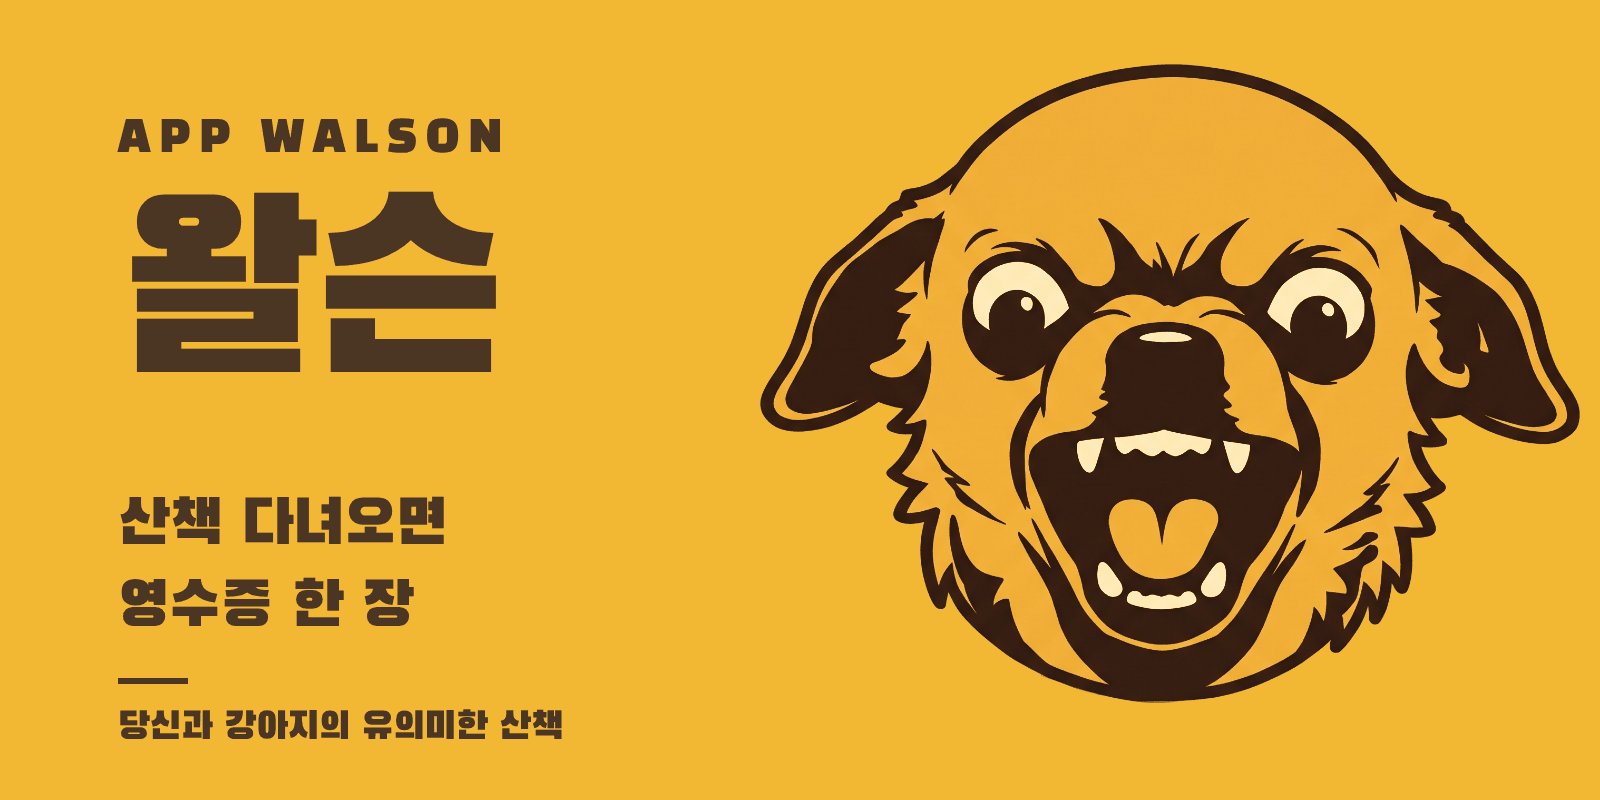
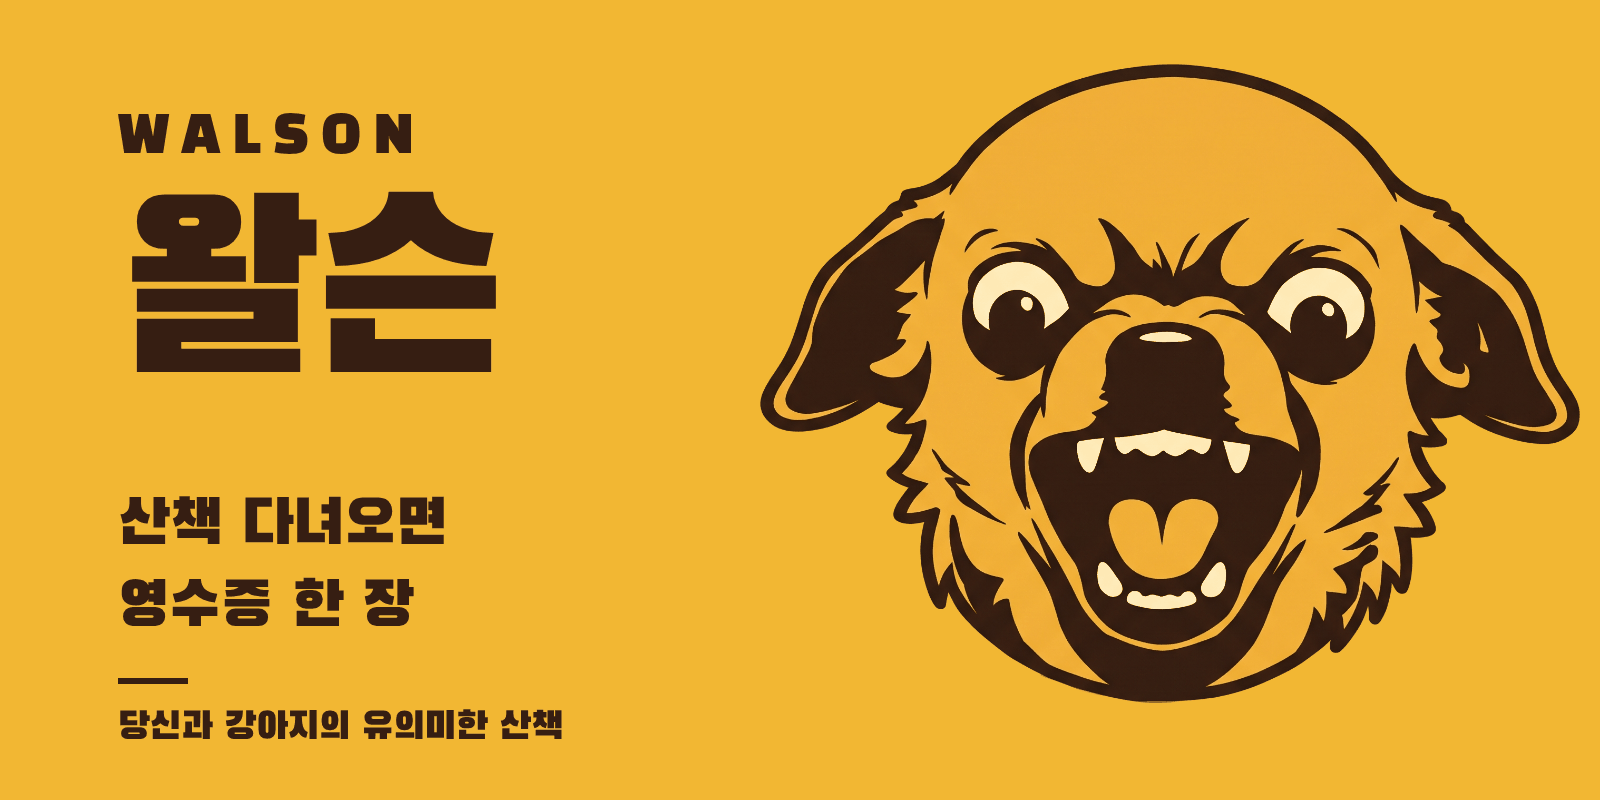
카톡 미리보기: "APP" 빼고 WALSON, 글씨 색을 강아지 진갈색(#361e12)으로
가르시아 "카톡 로고를 app 빼고 글씨를 강아지의 색깔 톤하고 맞춰줘".
- _print/logo/og.html: brand.name에서 APP을 뺌(카톡 미리보기만 — CLAUDE.md 홍보물 규칙에 예외로 적음),
  글씨·줄 색 #4b3624 → 강아지 테두리·귀와 같은 #361e12, WALSON 크기를 예전 미리보기 비율로
- og/walson-og.png 다시 찍음, 화면들의 og:image ?v=3

Claude-Session: https://claude.ai/code/session_01D364GEoGYvoJBQMwNFFrnm

Changed region(s): [[0.0625, 0.125, 0.3125, 0.1875]]

diff --git a/_print/logo/og.html b/_print/logo/og.html
@@ -4,18 +4,19 @@
 <meta charset="UTF-8">
 <title>왈슨 카톡 미리보기 그림(1600×800)</title>
 <!-- 카톡·SNS 링크 미리보기 그림 og/walson-og.png를 만드는 판(2026-11-18 로고를 짖는 얼굴로 바꾸며 다시 만듦).
-     브라우저로 1600×800 크기로 열어 그대로 찍는다(README.md). 홍보 그림이라 필수 두 줄(APP WALSON · 당신과 강아지의 유의미한 산책)을
-     site-config.js brand에서 불러 넣는다(CLAUDE.md 텍스트 규칙). 그림을 바꾸면 화면들의 og:image 주소 ?v= 번호를 올린다 — 카톡이 예전 그림을 오래 기억한다. -->
+     브라우저로 1600×800 크기로 열어 그대로 찍는다(README.md). 글은 site-config.js brand에서 불러 넣되(CLAUDE.md 텍스트 규칙),
+     카톡 미리보기는 예외로 "APP" 없이 WALSON(2026-11-18 가르시아 "카톡 로고를 app 빼고"). 글씨 색은 강아지 테두리·귀와 같은 진갈색 #361e12
+     (같은 날 "글씨를 강아지의 색깔 톤하고 맞춰줘"). 그림을 바꾸면 화면들의 og:image 주소 ?v= 번호를 올린다 — 카톡이 예전 그림을 오래 기억한다. -->
 <link href="https://fonts.googleapis.com/css2?family=Black+Han+Sans&display=block" rel="stylesheet">
 <style>
   html, body { margin: 0; }
-  body { width: 1600px; height: 800px; overflow: hidden; background: #f2b733; color: #4b3624; position: relative;
+  body { width: 1600px; height: 800px; overflow: hidden; background: #f2b733; color: #361e12; position: relative;
     font-family: 'Black Han Sans', sans-serif; }
   .txt { position: absolute; left: 118px; top: 0; }
-  .en { position: absolute; top: 112px; font-size: 44px; letter-spacing: 0.2em; white-space: nowrap; }
+  .en { position: absolute; top: 106px; font-size: 52px; letter-spacing: 0.24em; white-space: nowrap; }
   .ko { position: absolute; top: 186px; font-size: 236px; line-height: 1; letter-spacing: -0.02em; white-space: nowrap; }
   .lead { position: absolute; top: 486px; font-size: 62px; line-height: 1.32; white-space: nowrap; }
-  .rule { position: absolute; top: 678px; width: 70px; height: 6px; background: #4b3624; }
+  .rule { position: absolute; top: 678px; width: 70px; height: 6px; background: #361e12; }
   .tag { position: absolute; top: 704px; font-size: 38px; white-space: nowrap; }
   .face { position: absolute; left: 760px; top: 64px; width: 820px; height: auto; }
 </style>
@@ -31,9 +32,9 @@
   <img class="face" src="walson-face.png" alt="">
 <script src="../../site-config.js"></script>
 <script>
-  // 필수 두 줄은 site-config.js brand 한 곳에서(문구를 고칠 땐 거기만)
+  // 글은 site-config.js brand 한 곳에서(문구를 고칠 땐 거기만) — 카톡 미리보기만 "APP"을 뺀다(2026-11-18 가르시아)
   var B = (window.WALSON_CONFIG || {}).brand || null;
-  document.getElementById('en').textContent = B ? B.name : '';
+  document.getElementById('en').textContent = B ? B.name.replace(/^APP\s+/i, '') : '';
   document.getElementById('tag').textContent = B ? B.tagline : '';
 </script>
 </body>

diff --git a/walk-type.html b/walk-type.html
@@ -12,7 +12,7 @@
 <meta property="og:title" content="왈슨 · 우리 개 산책 유형 테스트">
 <meta property="og:description" content="다산동 강아지 산책 앱. 다녀와서 몇 분인지만 누르면 끝, 설치·가입 없이 바로 써요.">
 <meta property="og:url" content="https://johnsongarage.co.kr/walson/walk-type.html">
-<meta property="og:image" content="https://johnsongarage.co.kr/walson/og/walson-og.png?v=2">
+<meta property="og:image" content="https://johnsongarage.co.kr/walson/og/walson-og.png?v=3">
 <meta property="og:image:width" content="1600">
 <meta property="og:image:height" content="800">
 <meta property="og:image:alt" content="왈슨 — 화난 치와와 얼굴, 산책 다녀오면 영수증 한 장, 다산동 강아지 산책 앱">

diff --git a/start.html b/start.html
@@ -12,7 +12,7 @@
 <meta property="og:title" content="왈슨 · 강아지 주민증 만들기">
 <meta property="og:description" content="다산동 강아지 산책 앱. 다녀와서 몇 분인지만 누르면 끝, 설치·가입 없이 바로 써요.">
 <meta property="og:url" content="https://johnsongarage.co.kr/walson/start.html">
-<meta property="og:image" content="https://johnsongarage.co.kr/walson/og/walson-og.png?v=2">
+<meta property="og:image" content="https://johnsongarage.co.kr/walson/og/walson-og.png?v=3">
 <meta property="og:image:width" content="1600">
 <meta property="og:image:height" content="800">
 <meta property="og:image:alt" content="왈슨 — 화난 치와와 얼굴, 산책 다녀오면 영수증 한 장, 다산동 강아지 산책 앱">

diff --git a/dex.html b/dex.html
@@ -12,7 +12,7 @@
 <meta property="og:title" content="왈슨 · 강아지 도감">
 <meta property="og:description" content="다산동 강아지 산책 앱. 다녀와서 몇 분인지만 누르면 끝, 설치·가입 없이 바로 써요.">
 <meta property="og:url" content="https://johnsongarage.co.kr/walson/dex.html">
-<meta property="og:image" content="https://johnsongarage.co.kr/walson/og/walson-og.png?v=2">
+<meta property="og:image" content="https://johnsongarage.co.kr/walson/og/walson-og.png?v=3">
 <meta property="og:image:width" content="1600">
 <meta property="og:image:height" content="800">
 <meta property="og:image:alt" content="왈슨 — 화난 치와와 얼굴, 산책 다녀오면 영수증 한 장, 다산동 강아지 산책 앱">

diff --git a/town.html b/town.html
@@ -12,7 +12,7 @@
 <meta property="og:title" content="왈슨">
 <meta property="og:description" content="다산동 강아지 산책 앱. 다녀와서 몇 분인지만 누르면 끝, 설치·가입 없이 바로 써요.">
 <meta property="og:url" content="https://johnsongarage.co.kr/walson/town.html">
-<meta property="og:image" content="https://johnsongarage.co.kr/walson/og/walson-og.png?v=2">
+<meta property="og:image" content="https://johnsongarage.co.kr/walson/og/walson-og.png?v=3">
 <meta property="og:image:width" content="1600">
 <meta property="og:image:height" content="800">
 <meta property="og:image:alt" content="왈슨 — 화난 치와와 얼굴, 산책 다녀오면 영수증 한 장, 다산동 강아지 산책 앱">

diff --git a/index.html b/index.html
@@ -12,7 +12,7 @@
 <meta property="og:title" content="왈슨">
 <meta property="og:description" content="다산동 강아지 산책 앱. 다녀와서 몇 분인지만 누르면 끝, 설치·가입 없이 바로 써요.">
 <meta property="og:url" content="https://johnsongarage.co.kr/walson/">
-<meta property="og:image" content="https://johnsongarage.co.kr/walson/og/walson-og.png?v=2">
+<meta property="og:image" content="https://johnsongarage.co.kr/walson/og/walson-og.png?v=3">
 <meta property="og:image:width" content="1600">
 <meta property="og:image:height" content="800">
 <meta property="og:image:alt" content="왈슨 — 화난 치와와 얼굴, 산책 다녀오면 영수증 한 장, 다산동 강아지 산책 앱">

diff --git a/PROJECT_CONTEXT.md b/PROJECT_CONTEXT.md
@@ -2694,6 +2694,8 @@ Black Han Sans 굵게 뭉개짐 0곳. 실제 폰은 아직.
   샘플 강아지 사진(`sample-walson.jpg`, 크림 바탕), 카톡 미리보기 `og/walson-og.png`(?v=2) — 다시 만들며 홍보물 규칙대로 "WALSON" → "APP WALSON",
   "다산동 강아지 산책 앱" → "당신과 강아지의 유의미한 산책"(site-config.js brand, 포스터와 같은 방식). 소개 페이지 로고 설명 글도 고침.
   원본·투명 그림·만드는 스크립트·미리보기 판은 `_print/logo/`(README).
+- 같은 날 이어서(가르시아 "카톡 로고를 app 빼고 글씨를 강아지의 색깔 톤하고 맞춰줘"): 카톡 미리보기는 "APP" 없이 WALSON(홍보물 규칙의 예외 — CLAUDE.md에 적음),
+  글씨·줄 색을 강아지 테두리·귀와 같은 진갈색 #361e12로(예전 #4b3624는 강아지보다 옅고 회색빛). 미리보기 주소 ?v=3.
 - 그대로 둔 것: 이미 만든 뱃지(예전 로고), 영수증의 노랑 칸 색, 홈 화면에 이미 깔린 아이콘(안드로이드는 크롬이 manifest를 다시 볼 때 바뀜, 아이폰은 다시 추가해야 바뀜).
 - 확인: 샘플 데이터로 시작 화면·[오늘](샘플 강아지 동그라미)·[기록] 영수증·[주민증] 사진·소개·주민증 만들기·포스터·제안서 — 새 얼굴로 나옴, 그림 못 받음 없음,
   화면 오류 없음. 아이콘 192·96·48·32px에서 얼굴로 읽힘, 진갈색·노랑·바다 바탕에 흰 띠 없음, maskable 안전 영역 안. 실제 폰은 아직.

diff --git a/_print/logo/README.md b/_print/logo/README.md
@@ -10,8 +10,8 @@
     `apple-touch-icon.png`(180 꽉 찬 크림) — 바탕색은 맨 위 `CREAM` 한 줄
   - `icons/sample-walson.jpg` — 샘플 강아지(왈슨) 사진, 크림 바탕
   - 다시 만들면 화면들의 `icon-192.png?v=`·`apple-touch-icon.png?v=`와 `manifest.json` 아이콘 `?v=`를 올린다.
-- `og.html` — 카톡 미리보기 그림 `og/walson-og.png`(1600×800) 판. 홍보 그림이라 필수 두 줄(APP WALSON · 당신과 강아지의 유의미한 산책)을
-  `site-config.js` brand에서 불러 넣는다. 저장소 맨 위에서 정적 서버를 띄우고 `/_print/logo/og.html`을 1600×800으로 찍은 뒤
+- `og.html` — 카톡 미리보기 그림 `og/walson-og.png`(1600×800) 판. 글은 `site-config.js` brand에서 불러 넣되 카톡 미리보기는 예외로
+  "APP" 없이 WALSON, 글씨는 강아지 테두리·귀와 같은 진갈색 `#361e12`(2026-11-18 가르시아 "카톡 로고를 app 빼고 글씨를 강아지의 색깔 톤하고 맞춰줘"). 저장소 맨 위에서 정적 서버를 띄우고 `/_print/logo/og.html`을 1600×800으로 찍은 뒤
   128색으로 줄여 저장(약 250KB). 바꾸면 화면들의 `og/walson-og.png?v=` 번호를 올린다(카톡이 예전 그림을 오래 기억함).
 
 ## 확인할 것

diff --git a/CLAUDE.md b/CLAUDE.md
@@ -28,6 +28,7 @@ UI만 먼저 만들고 데이터는 로컬(localStorage)에 임시로 둔다.
 - 홍보물(포스터·전단·명함·방문 안내지·제안서·카운터 QR 등 밖에 나가는 인쇄물·홍보 그림)에는 두 줄 **"APP WALSON"**과
   **"당신과 강아지의 유의미한 산책"**을 글자 그대로 반드시 넣는다(2026-11-17 가르시아). 글자는 `site-config.js`의 `brand` 값을
   불러다 쓰고 화면마다 따로 적지 않는다 — 문구를 고칠 땐 거기 한 곳만. 새 홍보물을 만들 때도 마찬가지.
+  예외: 카톡 링크 미리보기 그림(`og/walson-og.png`)은 "APP" 없이 WALSON(2026-11-18 가르시아).
 
 ## 개인정보 취급
 
